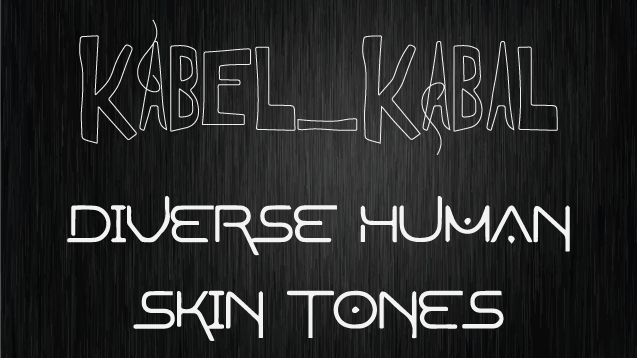
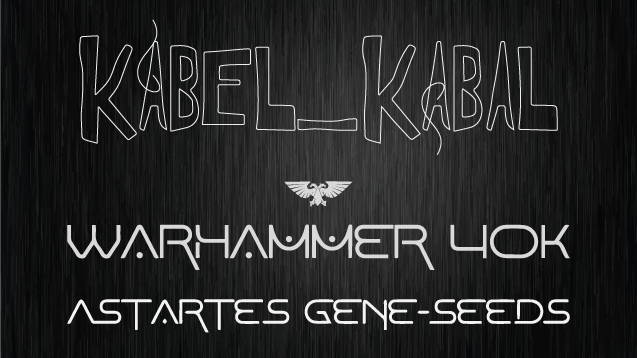
Initial v1.0 commit: Added 18 unique Astartes Gene-Seeds. Added 18 unique Astartes Xenotypes (all known Legions). All built in harmony with the vanilla Rimworld experience.
Tested and working.

Changed region(s): [[0.0895, 0.4916, 0.8948, 0.7682], [0.0895, 0.7989, 0.8948, 0.9525]]

diff --git a/README.md b/README.md
@@ -1,2 +1,16 @@
 # [KK] Warhammer 40K - Astartes Gene-Seeds
 Official GitHub repo for KK's Warhammer 40K - Astartes Gene-Seeds mod for Rimworld.
+
+As the Horus Heresy rages across the galaxy, the Legions of the Imperium crashland on the Rim.
+Play out your own scenario as you take Loyalist against Traitor for the fate of all reality.
+Declare your alleigence by playing a Legion, or make your own Legion with your choice of Astartes Gene-Seed.
+
+Let the die be cast.
+
+## v1.0: Initial Release
+## For Rimworld 1.4
+
+Initial v1.0 commit:
+Added 18 unique Astartes Gene-Seeds.
+Added 18 unique Astartes Xenotypes (all known Legions).
+All built in harmony with the vanilla Rimworld experience.
